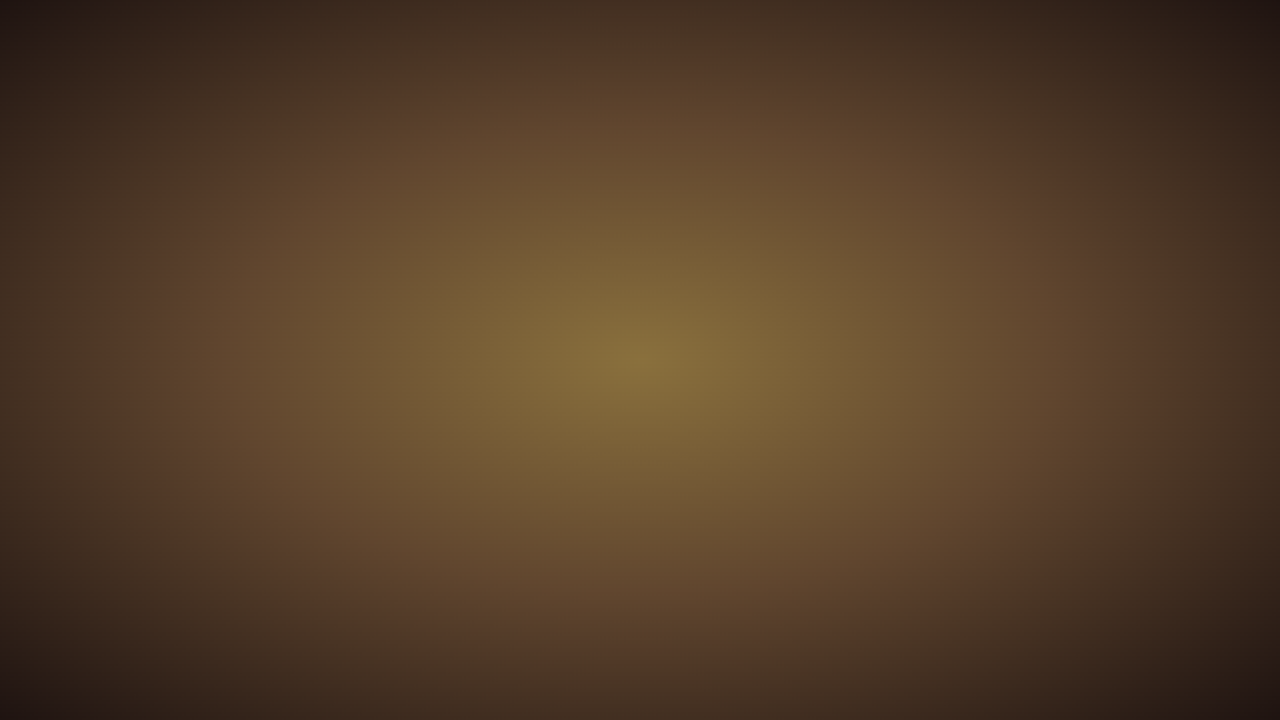
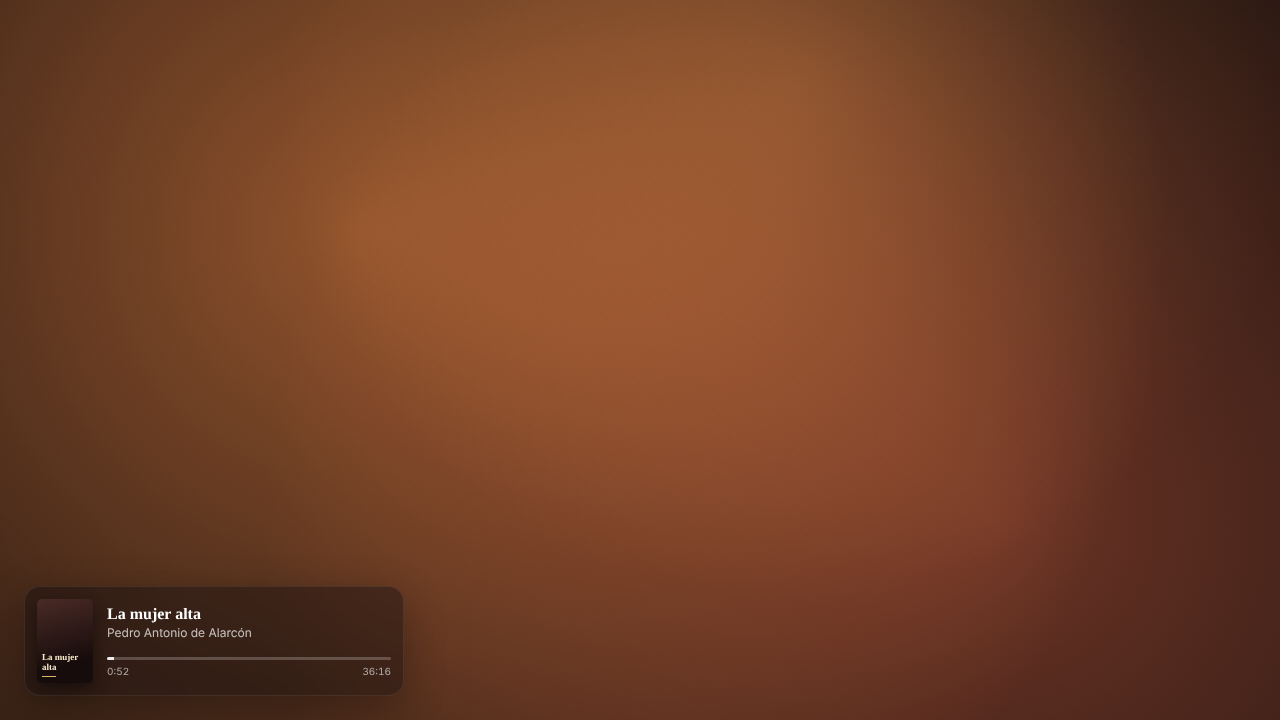
Maqueta TV + celular para la diapositiva final y capturas con la paleta ámbar-rojo
Claude-Session: https://claude.ai/code/session_011C6L85DeL9CWryjNQqcVnx

diff --git a/presentacion/maqueta_tv.html b/presentacion/maqueta_tv.html
@@ -1,0 +1,102 @@
+<!doctype html>
+<html lang="es"><head><meta charset="utf-8"><title>Maqueta TV</title><style>
+  :root { --bg: #0b0910; --tinta: #f4f1f8; --suave: #a39cb3; }
+  html, body { margin: 0; background: transparent; font-family: "Inter", "Segoe UI", system-ui, sans-serif; }
+  .escena { width: 1100px; height: 820px; display: flex; gap: 48px; align-items: flex-start; justify-content: center; padding-top: 20px; box-sizing: border-box; }
+  .telefono { width: 340px; height: 700px; border-radius: 48px; background: #050407; padding: 12px; box-shadow: 0 30px 80px rgba(0,0,0,.45), inset 0 0 0 2px #2a2533; flex: none; }
+  .pantalla { position: relative; width: 100%; height: 100%; border-radius: 38px; overflow: hidden; background: var(--bg); color: var(--tinta); }
+  .isla { position: absolute; top: 10px; left: 50%; transform: translateX(-50%); width: 96px; height: 26px; border-radius: 20px; background: #000; z-index: 3; }
+  .barra { display: flex; justify-content: space-between; padding: 14px 26px 0; font-size: 13px; font-weight: 600; }
+  /* Pantalla 1: catálogo */
+  .cab { padding: 22px 20px 6px; }
+  .cab small { color: var(--suave); font-size: 12px; letter-spacing: .06em; text-transform: uppercase; }
+  .cab h1 { margin: 4px 0 0; font: 700 26px/1.1 Georgia, serif; }
+  .chips { display: flex; gap: 6px; padding: 10px 20px; }
+  .chip { font-size: 11px; padding: 5px 10px; border-radius: 999px; background: #1d1925; color: var(--suave); }
+  .chip.on { background: #f0c46a; color: #1b1420; font-weight: 600; }
+  .seccion { padding: 8px 20px 4px; font-weight: 600; font-size: 14px; }
+  .fila { display: flex; gap: 12px; padding: 6px 20px 10px; }
+  .libro { flex: none; width: 92px; }
+  .tapa { height: 126px; border-radius: 8px; padding: 10px 8px; box-sizing: border-box; display: flex; flex-direction: column; justify-content: space-between;
+    box-shadow: 0 8px 18px rgba(0,0,0,.4); position: relative; overflow: hidden; }
+  .tapa b { font: 700 13px/1.05 Georgia, serif; color: #fff; }
+  .tapa i { font-style: normal; font-size: 9px; color: rgba(255,255,255,.75); letter-spacing: .05em; text-transform: uppercase; }
+  .tapa::after { content: ""; position: absolute; left: 6px; top: 0; bottom: 0; width: 2px; background: rgba(255,255,255,.12); }
+  .libro p { margin: 6px 0 0; font-size: 11px; color: var(--suave); }
+  .ola { position: absolute; right: 7px; top: 24px; width: 18px; height: 18px; border-radius: 50%; background: rgba(255,255,255,.18);
+    display: grid; place-items: center; }
+  .ola::before { content: ""; width: 8px; height: 8px; border-radius: 50%; background: radial-gradient(circle, #ffe2a0, #f0a85a); }
+  .t1 { background: linear-gradient(160deg, #4b1d2c, #120910); }
+  .t2 { background: linear-gradient(160deg, #24405a, #0c1520); }
+  .t3 { background: linear-gradient(160deg, #3d3f2a, #12130b); }
+  .t4 { background: linear-gradient(160deg, #5b4220, #1b1209); }
+  .t5 { background: linear-gradient(160deg, #3a2758, #100a1a); }
+  .t6 { background: linear-gradient(160deg, #1f4a45, #08130f); }
+  .mini { position: absolute; left: 12px; right: 12px; bottom: 74px; display: flex; align-items: center; gap: 10px; padding: 8px; border-radius: 14px;
+    background: linear-gradient(90deg, #5a1d22, #2a1214); }
+  .mini .t { width: 38px; height: 38px; border-radius: 6px; flex: none; }
+  .mini div { flex: 1; font-size: 12px; } .mini div span { display: block; color: var(--suave); font-size: 11px; }
+  .play { width: 30px; height: 30px; border-radius: 50%; background: #fff; display: grid; place-items: center; flex: none; }
+  .play::before { content: ""; border-left: 10px solid #1b1420; border-top: 6px solid transparent; border-bottom: 6px solid transparent; margin-left: 3px; }
+  .nav { position: absolute; left: 0; right: 0; bottom: 0; height: 64px; display: flex; justify-content: space-around; align-items: center;
+    background: #08070b; font-size: 10px; color: var(--suave); }
+  .nav span { display: grid; justify-items: center; gap: 4px; } .nav span::before { content: ""; width: 18px; height: 18px; border-radius: 5px; background: #2a2533; }
+  .nav span.on { color: var(--tinta); } .nav span.on::before { background: #f0c46a; }
+  /* Pantalla 2: reproducción con ambientación */
+  .amb { position: absolute; inset: 0; background: radial-gradient(ellipse 85% 60% at 50% 42%, hsl(275 55% 52%) 0%, hsl(265 50% 30%) 45%, #0c0814 85%); }
+  .rep { position: relative; z-index: 1; height: 100%; display: flex; flex-direction: column; align-items: center; padding: 64px 26px 30px; box-sizing: border-box; }
+  .rep small { color: rgba(255,255,255,.75); font-size: 11px; letter-spacing: .08em; text-transform: uppercase; }
+  .rep .titulo { margin-top: auto; align-self: stretch; }
+  .rep h2 { margin: 0; font: 700 24px/1.1 Georgia, serif; }
+  .rep .titulo span { color: rgba(255,255,255,.75); font-size: 13px; }
+  .estado { align-self: stretch; margin-top: 14px; display: flex; gap: 8px; align-items: center; font-size: 11px; color: rgba(255,255,255,.85); }
+  .estado i { width: 8px; height: 8px; border-radius: 50%; background: #d7b8ff; box-shadow: 0 0 10px #d7b8ff; }
+  .prog { align-self: stretch; margin-top: 16px; height: 4px; border-radius: 4px; background: rgba(255,255,255,.2); }
+  .prog b { display: block; width: 38%; height: 100%; border-radius: 4px; background: #fff; }
+  .tiempos { align-self: stretch; display: flex; justify-content: space-between; font-size: 11px; color: rgba(255,255,255,.7); margin-top: 6px; }
+  .controles { display: flex; gap: 34px; align-items: center; margin-top: 18px; }
+  .controles .play { width: 62px; height: 62px; } .controles .play::before { border-left-width: 18px; border-top-width: 11px; border-bottom-width: 11px; margin-left: 5px; }
+  .salto { width: 26px; height: 26px; border-radius: 50%; border: 2px solid rgba(255,255,255,.7); }
+  .leyenda { font-size: 15px; color: #3b3448; max-width: 320px; text-align: center; margin: 14px 0 0; }
+  .col { display: grid; justify-items: center; }
+
+  .escena { width: 1400px; height: 860px; display: block; position: relative; padding: 0; }
+  .tv { position: absolute; left: 20px; top: 30px; width: 1100px; }
+  .marco { background: #0b0b0d; border-radius: 18px; padding: 16px; box-shadow: 0 40px 90px rgba(0,0,0,.35), inset 0 0 0 2px #26262b; }
+  .marco img { display: block; width: 100%; border-radius: 6px; }
+  .pie { width: 220px; height: 26px; margin: 0 auto; background: linear-gradient(#1a1a1e, #0b0b0d); clip-path: polygon(18% 0, 82% 0, 100% 100%, 0 100%); }
+  .base { width: 360px; height: 10px; margin: 0 auto; border-radius: 6px; background: #121215; }
+  .telefono { position: absolute; left: 1040px; top: 150px; transform: scale(.92); transform-origin: top left; }
+  .cast { display: inline-flex; gap: 4px; align-items: center; color: #f0c46a; font-size: 10px; }
+  .cast::before { content: ""; width: 12px; height: 9px; border: 1.5px solid #f0c46a; border-radius: 2px; }
+  .flecha { position: absolute; left: 420px; top: 560px; width: 120px; height: 2px; background: repeating-linear-gradient(90deg, #8a7f99 0 8px, transparent 8px 14px); }
+  .flecha::after { content: ""; position: absolute; right: -2px; top: -5px; border-left: 10px solid #8a7f99; border-top: 6px solid transparent; border-bottom: 6px solid transparent; }
+  .rotulo-tv { position: absolute; left: 370px; top: 760px; width: 400px; text-align: center; font-size: 17px; color: #3b3448; }
+  .rotulo-tel { position: absolute; left: 1040px; top: 810px; width: 310px; text-align: center; font-size: 17px; color: #3b3448; }
+</style></head>
+<body><div class="escena">
+  <div class="tv"><div class="marco"><img src="../docs/capturas_estimulo/minimo_terror.png" alt="Ambientación en la TV"></div><div class="pie"></div><div class="base"></div></div>
+  <div class="telefono"><div class="pantalla">
+      <div class="isla"></div>
+      <div class="barra"><span>9:41</span><span>●●● ▮</span></div>
+      <div class="cab"><small>Escuchar y ver</small><h1>¿Qué querés escuchar hoy?</h1></div>
+      <div class="chips"><span class="chip on">Con ambientación</span><span class="chip">Terror</span><span class="chip">Clásicos</span></div>
+      <div class="seccion">Clásicos con ambientación</div>
+      <div class="fila">
+        <div class="libro"><div class="tapa t1"><i>Bram Stoker</i><b>Drácula</b><span class="ola"></span></div><p>15 h 30 min</p></div>
+        <div class="libro"><div class="tapa t2"><i>Mary Shelley</i><b>Frankenstein</b><span class="ola"></span></div><p>8 h 20 min</p></div>
+        <div class="libro"><div class="tapa t3"><i>Oscar Wilde</i><b>El retrato de Dorian Gray</b><span class="ola"></span></div><p>8 h 05 min</p></div>
+      </div>
+      <div class="seccion">Cuentos para una noche</div>
+      <div class="fila">
+        <div class="libro"><div class="tapa t5"><i>P. A. de Alarcón</i><b>La mujer alta</b><span class="ola"></span></div><p>36 min</p></div>
+        <div class="libro"><div class="tapa t4"><i>Emily Brontë</i><b>Cumbres borrascosas</b><span class="ola"></span></div><p>12 h 10 min</p></div>
+        <div class="libro"><div class="tapa t6"><i>E. A. Poe</i><b>El gato negro</b><span class="ola"></span></div><p>32 min</p></div>
+      </div>
+      <div class="mini"><span class="t tapa t5"></span><div>La mujer alta<span class="cast">Reproduciendo en TV</span></div><span class="play"></span></div>
+      <div class="nav"><span class="on">Inicio</span><span>Buscar</span><span>Biblioteca</span></div>
+    </div></div>
+    
+  <p class="rotulo-tv">La TV se vuelve la ambientación</p>
+  <p class="rotulo-tel">Desde el celular se elige el audiolibro</p>
+</div></body></html>

diff --git a/presentacion/generar_presentacion_corta.js b/presentacion/generar_presentacion_corta.js
@@ -15,8 +15,8 @@ const THEME = {
   bodyFontFace: "Calibri",
   colors: {
     dk1: "1B1622", lt1: "FFFFFF", dk2: "0E0B14", lt2: "F1EEF5",
-    accent1: "E3A93F", accent2: "7B4FC4", accent3: "6B6380", accent4: "C46A9A",
-    accent5: "4F8A6E", accent6: "A39CB3", hlink: "7B4FC4", folHlink: "6B6380",
+    accent1: "E3A93F", accent2: "B8323A", accent3: "6B6380", accent4: "C46A9A",
+    accent5: "4F8A6E", accent6: "A39CB3", hlink: "B8323A", folHlink: "6B6380",
   },
 };
 
@@ -72,16 +72,16 @@ pasos.forEach(([n, t, d], i) => {
 s.addImage({ path: img("docs/capturas_estimulo/minimo_calma.png"), x: M, y: 3.6, w: 4.6, h: 2.59, objectName: "Calma" });
 s.addImage({ path: img("docs/capturas_estimulo/minimo_terror.png"), x: M + 4.85, y: 3.6, w: 4.6, h: 2.59, objectName: "Terror" });
 caja(s, [{ text: "Calma", options: { bold: true, breakLine: true } }, { text: "cálida y tranquila", options: { fontSize: 14, color: C.accent3 } }], { x: M, y: 6.3, w: 4.6, h: 0.7, fontSize: 16 });
-caja(s, [{ text: "Tensión", options: { bold: true, breakLine: true } }, { text: "violeta y más intensa", options: { fontSize: 14, color: C.accent3 } }], { x: M + 4.85, y: 6.3, w: 4.6, h: 0.7, fontSize: 16 });
+caja(s, [{ text: "Tensión", options: { bold: true, breakLine: true } }, { text: "roja y más intensa", options: { fontSize: 14, color: C.accent3 } }], { x: M + 4.85, y: 6.3, w: 4.6, h: 0.7, fontSize: 16 });
 s.addShape(pres.shapes.ROUNDED_RECTANGLE, { x: 10.35, y: 3.6, w: 2.38, h: 2.59, rectRadius: 0.12, fill: { color: C.background2 }, line: { color: C.background2 }, objectName: "Sin imágenes" });
 caja(s, [{ text: "Sin imágenes de la historia", options: { bold: true, fontSize: 16, breakLine: true } }, { text: "A propósito: cada uno imagina las escenas", options: { fontSize: 14, color: C.accent3 } }],
   { x: 10.55, y: 3.85, w: 2.0, h: 2.2, paraSpaceAfter: 6 });
-s.addNotes("El sistema analiza el tono emocional de cada momento de la historia: qué tan intenso y qué tan agradable es. Con eso cambia la luz de la pantalla: cálida y tranquila en la calma, violeta e intensa en la tensión. No muestra imágenes de la historia, a propósito: la idea es acompañar el clima y dejar que cada uno imagine las escenas.");
+s.addNotes("El sistema analiza el tono emocional de cada momento de la historia: qué tan intenso y qué tan agradable es. Con eso cambia la luz de la pantalla: ámbar y tranquila en la calma, roja e intensa en la tensión. No muestra imágenes de la historia, a propósito: la idea es acompañar el clima y dejar que cada uno imagine las escenas.");
 
 // 3. Demo
 s = pres.addSlide({ masterName: "OSCURO" });
 s.addText("Demo", { placeholder: "title" });
-s.addImage({ path: img("docs/capturas/llamativo_terror.png"), x: 2.4, y: 1.6, w: 8.53, h: 4.8, objectName: "Sistema funcionando" });
+s.addImage({ path: img("docs/capturas/demo_minimo_terror.png"), x: 2.4, y: 1.6, w: 8.53, h: 4.8, objectName: "Sistema funcionando" });
 caja(s, "La mujer alta, de Pedro Antonio de Alarcón · 36 minutos · LibriVox", { x: 2.4, y: 6.55, w: 8.53, h: 0.4, fontSize: 14, color: C.accent6, align: "center" });
 s.addNotes("Abrir reproductor/index.html. Elegir anotacion.json y el MP3, perfil Llamativo, modo Demostración. Saltar a 13:34 (aparece la mujer alta) y a 0:50 (la calma). Después repetir con el perfil Mínimo y ocultar el panel con la tecla E.");
 
@@ -118,19 +118,19 @@ s.addNotes("El desafío es qué tan suave o intenso tiene que ser el efecto para
 // 5. A futuro
 s = pres.addSlide({ masterName: "CLARO" });
 s.addText("A futuro: una app de audiolibros con ambientación", { placeholder: "title" });
-s.addImage({ path: img("presentacion/maqueta_app.png"), x: M, y: 1.45, w: 7.1, h: 5.29, objectName: "Maqueta de la app" });
+s.addImage({ path: img("presentacion/maqueta_tv.png"), x: M, y: 1.45, w: 8.5, h: 5.22, objectName: "Maqueta: TV y celular" });
 const futuro = [
+  ["Del celular a la TV", "Se elige el audiolibro en el celular y la ambientación se ve en la TV."],
   ["Catálogo ya analizado", "El análisis se hace una sola vez por libro; la app solo reproduce."],
   ["Integrable en apps existentes", "Por ejemplo, en plataformas de audiolibros como Spotify."],
-  ["Luces de la habitación", "Llevar la ambientación a lámparas inteligentes, sin mirar una pantalla."],
 ];
 futuro.forEach(([t, d], i) => {
-  const y = 1.8 + i * 1.55;
-  s.addShape(pres.shapes.OVAL, { x: 8.1, y: y + 0.05, w: 0.45, h: 0.45, fill: { color: i === 2 ? C.accent2 : C.accent1 }, line: { color: i === 2 ? C.accent2 : C.accent1 }, objectName: `Futuro ${i + 1}` });
-  caja(s, [{ text: t, options: { bold: true, fontSize: 18, breakLine: true } }, { text: d, options: { fontSize: 15, color: C.accent3 } }], { x: 8.75, y, w: 4.0, h: 1.3, paraSpaceAfter: 4 });
+  const y = 1.75 + i * 1.6;
+  s.addShape(pres.shapes.OVAL, { x: 9.35, y: y + 0.05, w: 0.42, h: 0.42, fill: { color: i === 0 ? C.accent2 : C.accent1 }, line: { color: i === 0 ? C.accent2 : C.accent1 }, objectName: `Futuro ${i + 1}` });
+  caja(s, [{ text: t, options: { bold: true, fontSize: 17, breakLine: true } }, { text: d, options: { fontSize: 14, color: C.accent3 } }], { x: 9.95, y, w: 2.8, h: 1.45, paraSpaceAfter: 4 });
 });
-caja(s, "Maqueta ilustrativa, no implementada.", { x: M, y: 6.85, w: 7.1, h: 0.35, fontSize: 11, italic: true, color: C.accent6 });
-s.addNotes("A futuro, esto podría integrarse a una app de audiolibros con un catálogo de relatos ya analizados. Encaja con el diseño, porque el análisis se hace una sola vez por libro y después solo se reproduce. También podría llevarse a las luces de la habitación, para que la ambientación forme parte del entorno.");
+caja(s, "Maqueta ilustrativa, no implementada.", { x: M, y: 6.85, w: 8.5, h: 0.35, fontSize: 11, italic: true, color: C.accent6 });
+s.addNotes("A futuro, esto podría ser una app de audiolibros: desde el celular elegís el libro y la ambientación se ve en la tele, como la luz de la habitación mientras escuchás. Tendría un catálogo de relatos ya analizados, porque el análisis se hace una sola vez por libro y después solo se reproduce, y podría integrarse en plataformas de audiolibros que ya existen.");
 
 (async () => {
   await pres.writeFile({ fileName: SALIDA });
